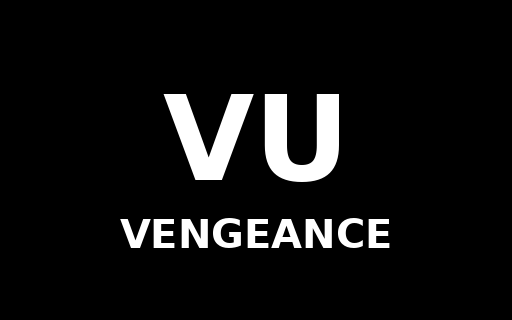
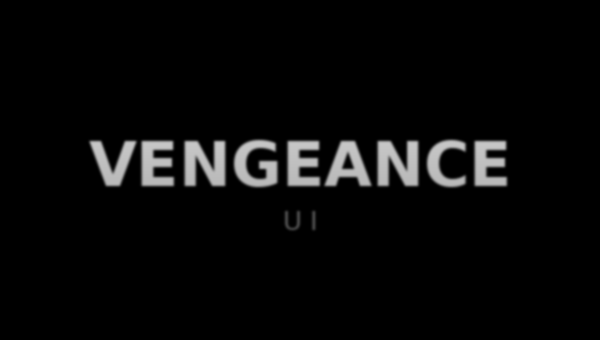
refine(interactive-particles): make the effect tasteful and subtle
- Soften the particles: feathered dots (border 0.3 -> 0.45) and alpha
  tied to brightness, so tonal images read as an airy field instead of a
  solid white mass
- Add a `color` prop (uColor uniform) to tint the greyscale particles
- Calmer defaults: size 1.5 -> 1.2, randomness 2 -> 1.8, depth 4 -> 3
- Replace the flat wordmark demo image with a tonal, feathered one that
  has real negative space
- Quieter, smaller upload button
- Docs + regenerated registry item so the CLI ships the refined code

Changed region(s): [[0.125, 0.2812, 0.8438, 0.5938], [0.2188, 0.625, 0.7812, 0.7812]]

diff --git a/src/components/ui/interactive-particles.tsx b/src/components/ui/interactive-particles.tsx
@@ -111,28 +111,30 @@ const FRAG = /* glsl */ `
 precision highp float;
 
 uniform sampler2D uTexture;
+uniform vec3 uColor;
 
 varying vec2 vPUv;
 varying vec2 vUv;
 
 void main() {
-  vec4 color = vec4(0.0);
   vec2 uv = vUv;
   vec2 puv = vPUv;
 
   vec4 colA = texture2D(uTexture, puv);
   float grey = colA.r * 0.21 + colA.g * 0.71 + colA.b * 0.07;
-  vec4 colB = vec4(grey, grey, grey, 1.0);
 
-  float border = 0.3;
+  // Soft, feathered dot instead of a hard-edged circle.
   float radius = 0.5;
+  float border = 0.45;
   float dist = radius - distance(uv, vec2(0.5));
   float t = smoothstep(0.0, border, dist);
 
-  color = colB;
-  color.a = t;
+  // Tint the greyscale value and let dimmer particles fade so tonal images
+  // read as an airy field rather than a solid mass.
+  vec3 rgb = vec3(grey) * uColor;
+  float alpha = t * (0.35 + 0.65 * grey);
 
-  gl_FragColor = color;
+  gl_FragColor = vec4(rgb, alpha);
 }
 `;
 
@@ -223,11 +225,13 @@ export interface InteractiveParticlesProps {
   className?: string;
   /** Wrapper background color. Defaults to black. */
   background?: string;
-  /** Steady-state particle size multiplier. Defaults to 1.5. */
+  /** Particle tint. Defaults to white (keeps the image's greyscale tones). */
+  color?: string;
+  /** Steady-state particle size multiplier. Defaults to 1.2. */
   size?: number;
-  /** Steady-state random spread. Defaults to 2. */
+  /** Steady-state random spread. Defaults to 1.8. */
   randomness?: number;
-  /** Steady-state depth (z displacement). Defaults to 4. */
+  /** Steady-state depth (z displacement). Defaults to 3. */
   depth?: number;
   /** Cursor touch radius (0–1). Defaults to 0.15. */
   touchRadius?: number;
@@ -243,9 +247,10 @@ export function InteractiveParticles({
   maxDimension = 480,
   className,
   background = "#000000",
-  size = 1.5,
-  randomness = 2.0,
-  depth = 4.0,
+  color = "#ffffff",
+  size = 1.2,
+  randomness = 1.8,
+  depth = 3.0,
   touchRadius = 0.15,
   threshold = 34,
 }: InteractiveParticlesProps) {
@@ -369,6 +374,7 @@ export function InteractiveParticles({
         uTextureSize: { value: new THREE.Vector2(imgWidth, imgHeight) },
         uTexture: { value: texture },
         uTouch: { value: null },
+        uColor: { value: new THREE.Color(color) },
       };
 
       const material = new THREE.RawShaderMaterial({
@@ -483,7 +489,7 @@ export function InteractiveParticles({
       // single WebGL context when the effect re-runs (e.g. after an upload).
       renderer.dispose();
     };
-  }, [effectiveSrc, size, randomness, depth, touchRadius, threshold, maxDimension]);
+  }, [effectiveSrc, color, size, randomness, depth, touchRadius, threshold, maxDimension]);
 
   return (
     <div
@@ -508,9 +514,9 @@ export function InteractiveParticles({
           <button
             type="button"
             onClick={() => fileInputRef.current?.click()}
-            className="absolute right-3 top-3 z-10 inline-flex items-center gap-1.5 rounded-full border border-white/20 bg-black/40 px-3 py-1.5 text-xs font-medium text-white/90 backdrop-blur transition-colors hover:bg-black/60"
+            className="group absolute right-4 top-4 z-10 inline-flex items-center gap-1.5 rounded-full border border-white/10 bg-white/5 px-3 py-1.5 text-[11px] font-medium text-white/60 backdrop-blur-sm transition-all duration-200 hover:border-white/20 hover:bg-white/10 hover:text-white/90"
           >
-            <svg width="14" height="14" viewBox="0 0 24 24" fill="none" stroke="currentColor" strokeWidth="2" strokeLinecap="round" strokeLinejoin="round" aria-hidden="true">
+            <svg width="12" height="12" viewBox="0 0 24 24" fill="none" stroke="currentColor" strokeWidth="2" strokeLinecap="round" strokeLinejoin="round" aria-hidden="true">
               <path d="M21 15v4a2 2 0 0 1-2 2H5a2 2 0 0 1-2-2v-4" />
               <polyline points="17 8 12 3 7 8" />
               <line x1="12" y1="3" x2="12" y2="15" />

diff --git a/src/lib/component-docs.ts b/src/lib/component-docs.ts
@@ -1353,9 +1353,10 @@ export function InteractiveParticlesDemo() {
       { prop: "onUpload", type: "(file: File) => void", defaultValue: "-", description: "Fired with the uploaded File whenever the user picks an image." },
       { prop: "maxDimension", type: "number", defaultValue: "480", description: "Longest edge the source is downscaled to before sampling (caps particle count)." },
       { prop: "background", type: "string", defaultValue: "'#000000'", description: "Wrapper background color." },
-      { prop: "size", type: "number", defaultValue: "1.5", description: "Steady-state particle size multiplier." },
-      { prop: "randomness", type: "number", defaultValue: "2", description: "Steady-state random spread of the particles." },
-      { prop: "depth", type: "number", defaultValue: "4", description: "Steady-state depth (z displacement)." },
+      { prop: "color", type: "string", defaultValue: "'#ffffff'", description: "Particle tint. Keeps the image's greyscale tones by default." },
+      { prop: "size", type: "number", defaultValue: "1.2", description: "Steady-state particle size multiplier." },
+      { prop: "randomness", type: "number", defaultValue: "1.8", description: "Steady-state random spread of the particles." },
+      { prop: "depth", type: "number", defaultValue: "3", description: "Steady-state depth (z displacement)." },
       { prop: "touchRadius", type: "number", defaultValue: "0.15", description: "Cursor touch radius (0–1)." },
       { prop: "threshold", type: "number", defaultValue: "34", description: "Brightness cutoff (0–255) below which pixels are discarded." },
       { prop: "className", type: "string", defaultValue: "-", description: "Additional classes for the wrapper element." },